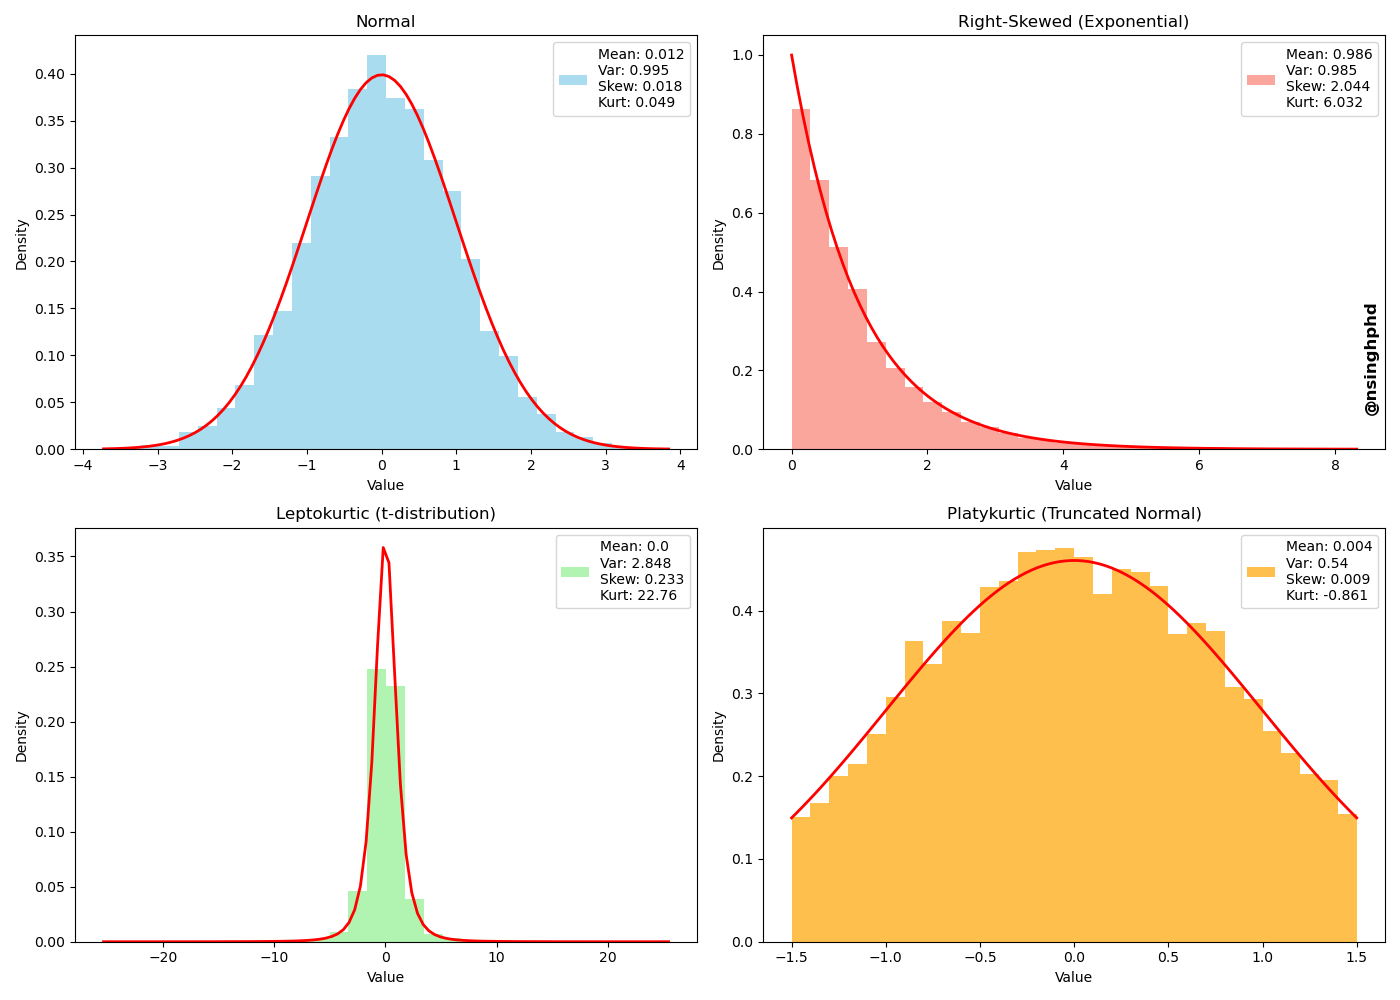
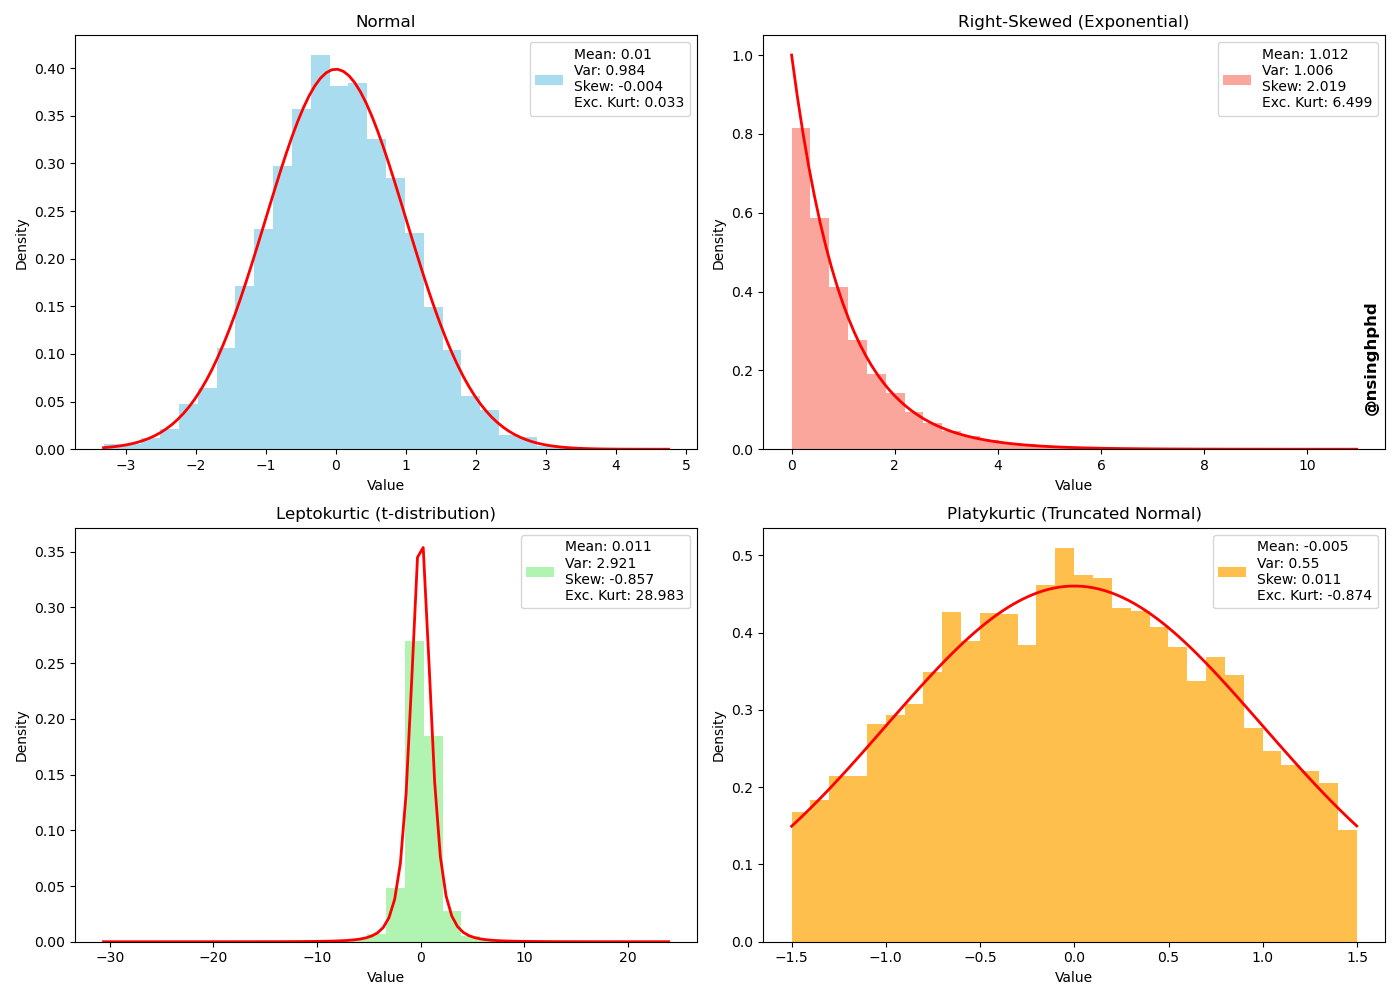
update kurtosis label in legend

diff --git a/240614_moments_plots.py b/240614_moments_plots.py
@@ -26,7 +26,7 @@ def calculate_stats(samples):
 def format_stats(stats):
     """Formats statistics into a string for plot legends."""
     return (
-        f"Mean: {stats[0]}\nVar: {stats[1]}\nSkew: {stats[2]}\nKurt: {stats[3]}"
+        f"Mean: {stats[0]}\nVar: {stats[1]}\nSkew: {stats[2]}\nExc. Kurt: {stats[3]}"
     )
 
 # --- PLOTTING ---
